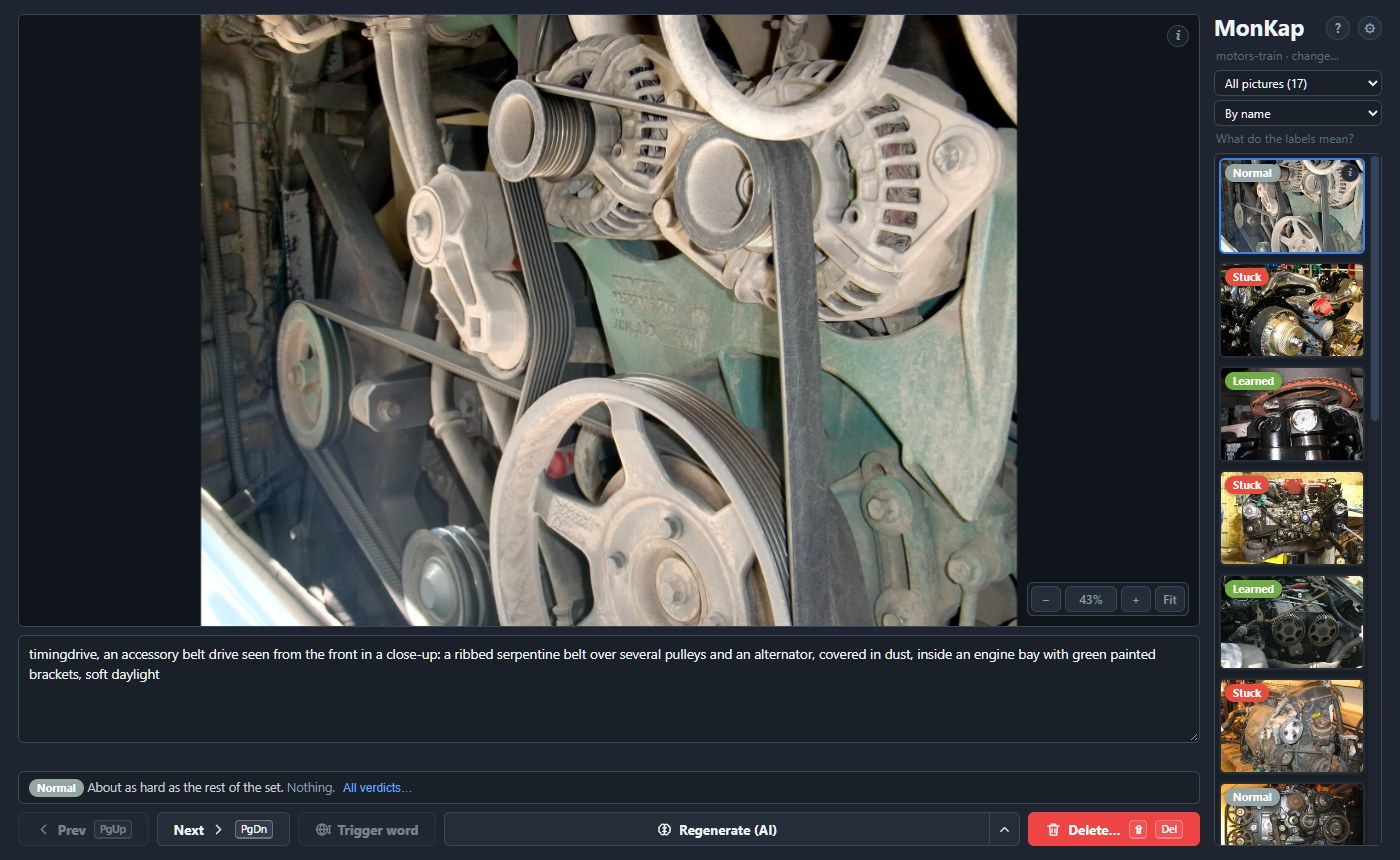
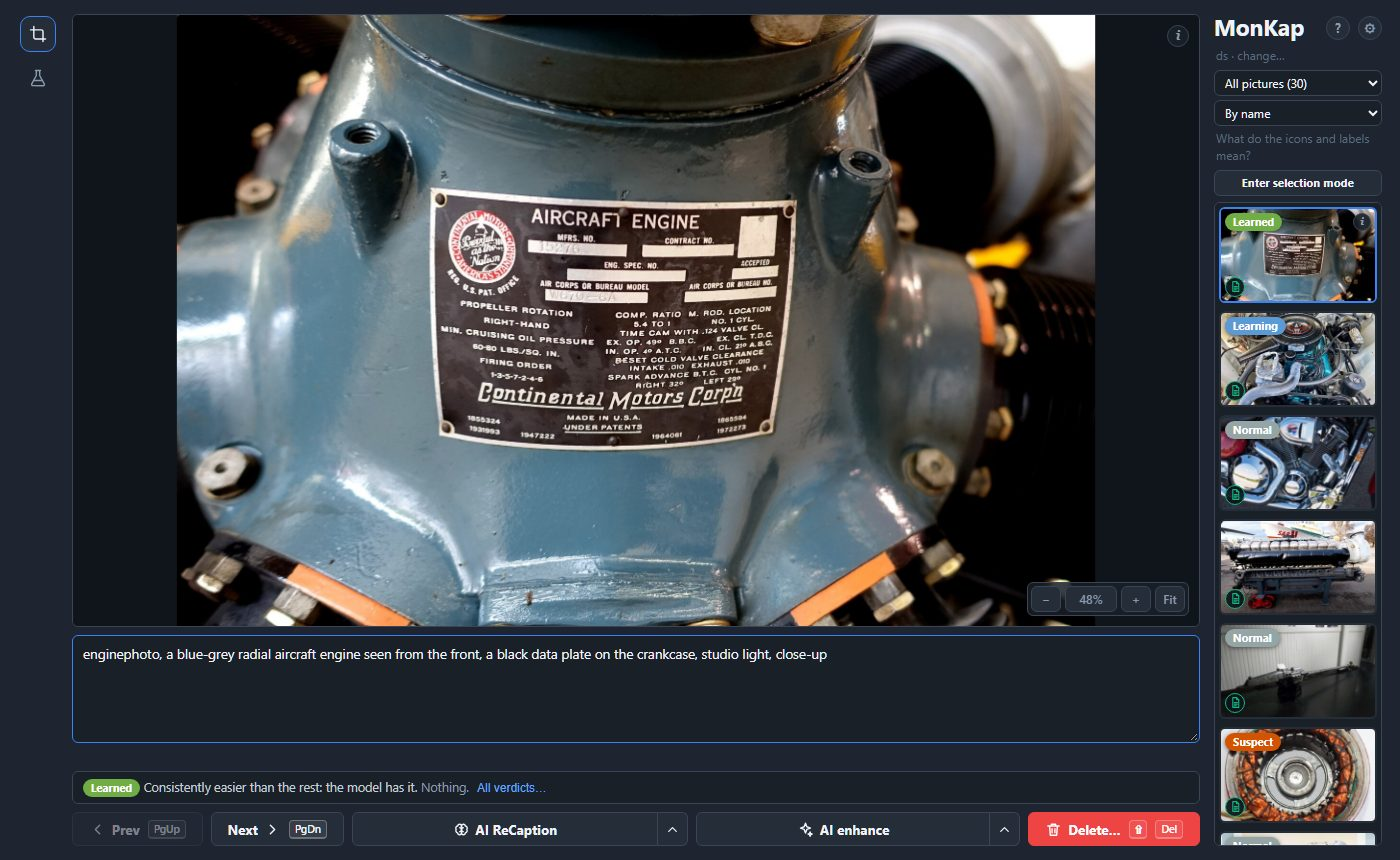
(DOCS): README rewritten as a product page, all screenshots retaken, thanks to Fizgig's author
- Short sections with a picture each: Kapture, captions, Enhance, Enhance lab (gallery and Resolve), Fizgig training review.
- Screenshots are retaken on the repo's test dataset with made-up ComfyUI and Fizgig servers (no real data); the old ones are replaced.
- A social preview image for the repository page (docs/social-preview.png).
- Thanks and a link to shootthesound, the author of Fizgig.

diff --git a/README.md b/README.md
@@ -1,51 +1,105 @@
 # MonKap
 
-A workbench for preparing image datasets: frame and crop pictures, write and edit captions by hand or with a model, and review the whole set from the keyboard.
+**Prepare image datasets for LoRA and fine-tune training: crop, caption, enhance and review every picture, mostly from the keyboard.**
 
-Pictures are never resized behind your back, and nothing is erased without a way back unless you ask for it.
+[![Release](https://img.shields.io/github/v/release/DIGIDWARF-CC/MonKap)](https://github.com/DIGIDWARF-CC/MonKap/releases/latest)
+[![License: GPL-3.0](https://img.shields.io/github/license/DIGIDWARF-CC/MonKap)](LICENSE)
+![Windows 10 | 11](https://img.shields.io/badge/Windows-10%20%7C%2011-0078D6)
+![Python 3.10+](https://img.shields.io/badge/Python-3.10%2B-3776AB)
+
+[**Download for Windows**](https://github.com/DIGIDWARF-CC/MonKap/releases/latest) · [Run from source](#run-from-source) · [Works with Fizgig](#fizgig)
 
 ![MonKap: a folder of pictures, the caption under the picture, training labels on the thumbnails](docs/screenshots/01-overview.jpg)
 
+Pictures are never resized behind your back, and nothing is erased without a way back unless you ask for it.
+
 ## What it does
 
-- **Kapture.** Drag a frame on a picture (ratio presets, the size shown in pixels), press `C`, and the framed area is saved next to the original as a new PNG, at the original's own pixels. The frame stays, so a four-panel page is four key presses. New pictures get names from a template (`{parent}_crop_{n:03d}`), and a number is never used twice, even after a crop is deleted.
-- **Captions.** The keyboard starts in the caption box; it saves by itself, and `PgUp` / `PgDn` walk through the folder. Clearing a caption on purpose removes the file (the old text is backed up first). A folder can have a trigger word, which MonKap can put first in a caption with one button.
-- **AI ReCaption.** The brain button writes the caption again, from scratch, with a model served by LM Studio, or by any server with an OpenAI-style API (Ollama, llama.cpp, vLLM…): the old text is replaced (it is kept, and *Restore previous caption* brings it back). Pick the model and the task in the settings; each task's instruction is editable. The arrow next to the button takes a hint for the model and has *Unload the model from LM Studio* (the model you picked only; unloading one that isn't loaded is no error).
-- **AI enhance.** The sparkle button hands the picture to a ComfyUI that is already running (MonKap never starts one). The progress is drawn over the picture itself (blurred and darkened, then ComfyUI's own preview frames), with one **Stop** button in place of the usual ones. The result comes as an interactive comparison: the original on the left, the enhanced picture on the right, a divider you drag. Then: **Retry** (another seed), **Discard**, **Replace** (the original is kept in `.monkap/replaced/`, and Undo brings it back) or **Store as Kapture** (a new picture next to the original, named and captioned like a crop). While it runs, the other pictures, the selection mode and the filters wait, and every greyed button says why in its tooltip. The arrow next to the button takes your own words for the picture and has *Unload the models from ComfyUI*. See [Enhance](#enhance-with-comfyui) below.
-- **Enhance lab.** The second icon of the rail on the left. A gallery of every picture of the folder with what helps to choose (size in pixels, a rough sharpness estimate with a *blurriest first* order, which task a picture is in, failed or waiting, the training verdict, AI-enhanced). Pick pictures (click, Shift+click, `Ctrl+A`), make a **task** from them with an optional extra instruction for the enhancer (the tick *Completely override default prompt* makes that instruction the whole prompt, without the template's default words in front; such a task wears an *overridden enhancer defaults* pill), and **Start** it: ComfyUI works through the pictures one at a time, with a progress bar and the time left. A finished picture leaves its task for good and gets a big yellow mark; a click opens it next to its original, and you choose **Regenerate**, **Discard**, **Save as new**, **Replace** or **Delete as unfixable**, then land on the next one that waits (`PgUp` / `PgDn` walk them). Three failures in a row, or a ComfyUI that goes away, stop the task. The tasks and the waiting results are kept on disk, so they survive a restart; a task that was running comes back *stopped*, never started by itself. The lab and the main view never use ComfyUI at the same time, and you can't leave the lab while tasks run.
-- **Who wrote a caption, and what changed.** Small round icons on every picture, in the filmstrip and in the gallery: a page with text (yellow: no caption, green: written or edited by hand, blue: written by the model and not touched since) and, when the picture was enhanced by AI, sparkles. The *Show* list filters by them (No caption, Written by hand, Written by AI, Enhanced by AI), sorts by when the caption changed, and, when a Fizgig run has trained on the folder, by whether a caption changed since that run started. MonKap keeps these notes in the folder's `.monkap/pictures.json`; a caption it has no note of counts as written by hand, and so does any text you have changed.
-- **Selection mode.** *Enter selection mode* above the filmstrip: a click on a picture picks it (Shift+click a range; icons for all, none and invert; they act on what the list shows, so a filter never hides a picked picture). The picture area becomes a gallery of the picked ones: click a tile to edit its caption below, double-click (or the arrow on the tile) to open it as a picture, and *Back to selection gallery* returns. The gallery is for the mouse; the keyboard stays with the caption box (`PgUp` / `PgDn` walk the picked pictures). **AI ReCaption** (with a hint for all of them) writes the captions one after another: each tile shows a spinner, then its icon turns blue (a red mark if it failed), with *Stop processing* and *Undo captions* above; **Trigger word** puts the folder's word first in every picked caption; **Delete selected** removes them together and always asks, whatever the settings say about asking (one Undo for the whole pack in the soft mode). The pick is remembered for each folder while the page is open: leave the mode and come back, or open another folder and return, and it is there (names that left the folder are dropped; *Select none* clears it).
-- **Big folders and big pictures.** A virtual filmstrip (a 4000-picture folder opens in a fraction of a second), a whole-picture preview, and full-resolution tiles when you zoom in. Pinch-zoom works on touch.
-- **Delete.** Either move to the folder's `removed/` with Undo, or erase for good. Your choice in the settings.
-- **Current dataset maintenance.** A tab of the settings with housekeeping of the folder that is open: *Clear all captions* (each text is kept in `.monkap/backups`, and Undo brings them back), *Delete empty caption files*, *Empty the removed/ folder* and *Forget MonKap's notes*. Every button counts what it would do and always asks first; the asking cannot be switched off.
+- **Crop** a part of a picture into a new picture (Kapture), at the original's own pixels.
+- **Caption** by hand with autosave, or with a vision model: LM Studio or any OpenAI-compatible server.
+- **Enhance** a picture with your own ComfyUI, and compare before and after on a draggable divider.
+- **Enhance a whole folder** in the Enhance lab: pick pictures, make a task, decide about each result.
+- **Review training** when you train with [Fizgig](#fizgig): which pictures are stuck, and what to do about them.
+- **Stay in control**: Undo for deletes, replaced originals and cleared captions; big folders open fast.
+
+## Crop: Kapture
+
+Drag a frame (ratio presets, size shown in pixels), press `C`, and the framed area is saved next to the original as a new PNG. The frame stays, so a four-panel page is four key presses. New pictures are named from a template (`{parent}_crop_{n:03d}`), and a number is never used twice.
 
 ![Kapture: a 1:1 frame on the picture; C saves it as a new picture](docs/screenshots/02-kapture.jpg)
 
-The layout follows the window: in a narrow window (or on a touch screen) the picture goes first and the buttons become one row at the bottom.
+## Caption
 
-<img src="docs/screenshots/06-phone.jpg" alt="The narrow layout" width="260">
-
-## Install (Windows 10 and 11)
-
-Run `MonKap-<version>-setup.exe`. It installs for your user (no administrator rights) and adds a Start menu entry.
-
-MonKap shows its page in the system's **WebView2** runtime. Windows 11 has it. On Windows 10 it usually comes with Microsoft Edge, but an old Windows 10 may only have the older web view: if the window doesn't open, install the Evergreen runtime from <https://developer.microsoft.com/microsoft-edge/webview2/>. Or use the Start menu entry **MonKap (in the browser)**, which opens the same page in your default browser instead of a window.
-
-For captions with a model, start LM Studio's server (or any compatible one), and in MonKap's settings set the address (`http://localhost:1234` is the default), press Refresh, and choose a model that can see pictures. The pictures are sent to that address, so use one you trust.
+- The keyboard starts in the caption box. It saves by itself, and `PgUp` / `PgDn` walk through the folder.
+- A **trigger word** per folder goes first in a caption with one button.
+- **AI ReCaption** writes the caption again from scratch. The old text is kept, and *Restore previous caption* brings it back. The arrow next to the button takes a hint for the model.
+- Small icons show who wrote each caption (nobody, you, or the model), and the *Show* list filters by them.
+- **Selection mode** does the same for many pictures at once: ReCaption, trigger word, delete, with one Undo.
 
 ## Enhance with ComfyUI
 
-Optional. In the settings, the Enhance tab takes the address of your ComfyUI (`http://127.0.0.1:8188` by default) and a template. **Check** tells you, before anything is sent, whether the template is usable and whether that ComfyUI has the nodes and model files it asks for. **Free ComfyUI's memory** unloads its models, for when a trainer needs the video memory.
+The sparkle button hands the picture to a ComfyUI that is already running (MonKap never starts one). The progress is drawn on the picture itself. The result comes as a comparison with a draggable divider, then you choose: **Retry** (new seed), **Discard**, **Replace** (the original is kept, Undo brings it back) or **Store as Kapture**.
 
-The template is a ComfyUI workflow saved with *Save (API Format)*. MonKap knows nothing about what is between the marked nodes, found by their titles: `MonKap Image` (the picture goes in), `MonKap Prompt` (the words), `MonKap Seed`, `MonKap Size` (optional: the size of the result) and `MonKap Result` (a preview node, so nothing lands in ComfyUI's output folder). **Download the reference template** in the settings gives a working one made only of ComfyUI's own nodes, for Qwen Image 2.1: pick your model files in its three loaders, or change whatever you like between the marked nodes (another model, another editor) and use your file instead. Keep the marked nodes and keep them linked; MonKap checks that.
+<p>
+<img src="docs/screenshots/03-enhance-progress.jpg" alt="The progress is drawn on the picture" width="49%">
+<img src="docs/screenshots/04-enhance-diff.jpg" alt="Before and after, with a draggable divider" width="49%">
+</p>
 
-**Enhanced picture size** (settings, Enhance tab): 1 MP, 2 MP (the default), 4 MP, or as the original (at most 4 MP). It reaches the workflow through the `MonKap Size` node; a template made before 0.5.0 has none and ignores the setting (*Check* says so), so download the reference template again to get it. Bigger is slower and needs more video memory.
+The result size is a setting: 1, 2 or 4 megapixels, or the picture's own size. Set the ComfyUI address and a workflow in the settings (see [Set up Enhance](#set-up-enhance)).
 
-The picture is sent to ComfyUI's temporary folder under a random name, the result is fetched from there, and the run is removed from ComfyUI's history afterwards. ComfyUI itself may keep log lines and its temporary files until it restarts.
+## Enhance lab
 
-## Run from source (any system)
+The second icon on the left switches to the lab: a gallery of the whole folder with each picture's size, a rough sharpness estimate (*blurriest first*) and its status.
 
-Needs Python 3.10 or newer.
+![The Enhance lab: a gallery with sizes and a task running](docs/screenshots/05-lab.jpg)
+
+1. **Pick** pictures (click, Shift+click, `Ctrl+A`).
+2. **Make a task** with an optional extra instruction. *Completely override default prompt* makes that instruction the whole prompt; such a task wears an *overridden enhancer defaults* pill.
+3. **Start**: ComfyUI works through the pictures one at a time, with progress and time left.
+4. **Resolve** each result next to its original: **Regenerate**, **Discard**, **Save as new**, **Replace** or **Delete as unfixable**. `PgUp` / `PgDn` walk the pictures that wait.
+
+![Resolve: the original and the enhanced picture, five choices](docs/screenshots/06-resolve.jpg)
+
+Three failures in a row, or a ComfyUI that goes away, stop the task. Tasks and waiting results are kept on disk and survive a restart (a task that was running comes back *stopped*, never started by itself).
+
+## Fizgig
+
+Optional. Point the settings' Fizgig tab at a [Fizgig](https://github.com/shootthesound/Fizgig) install and MonKap reads, from its files only, never writing to them:
+
+- the **trigger word** and **Caption Extension** of a folder,
+- where Fizgig keeps its **latent cache** (erasing a picture for good clears its latents too),
+- the **training review**: after a Fizgig run on the folder, each picture gets a label (Stuck, Suspect, Learning, Learned…), the verdict and what to do about it sit under the caption, and you can filter (*Problems*) and sort (*Hardest first*). A picture whose caption was changed after the run started counts as dealt with.
+
+![Problem pictures first, hardest on top, with the verdict under the caption](docs/screenshots/07-training-review.jpg)
+
+Checked against Fizgig 8.9.3. If Fizgig changes how it stores folders or settings this can stop working; MonKap then falls back to its own settings.
+
+## Install (Windows 10 and 11)
+
+1. Download `MonKap-<version>-setup.exe` from the [latest release](https://github.com/DIGIDWARF-CC/MonKap/releases/latest) and run it. It installs for your user (no administrator rights).
+2. Start **MonKap** from the Start menu and open a folder of pictures.
+
+The installer is not code-signed, so Windows SmartScreen may ask you to confirm (*More info*, *Run anyway*).
+
+MonKap shows its page in the system's **WebView2** runtime. Windows 11 has it; Windows 10 usually gets it with Microsoft Edge. If the window doesn't open, install the Evergreen runtime from <https://developer.microsoft.com/microsoft-edge/webview2/>, or use the Start menu entry **MonKap (in the browser)**.
+
+## Set up captions
+
+Start LM Studio's server (or any OpenAI-compatible one: Ollama, llama.cpp, vLLM…). In the settings set its address (`http://localhost:1234` by default), press Refresh and choose a model that can see pictures. Each task's instruction is editable. The pictures are sent to that address, so use one you trust.
+
+## Set up Enhance
+
+In the settings' Enhance tab set your ComfyUI's address (`http://127.0.0.1:8188` by default) and press **Check**: it tells you, before anything is sent, whether the template is usable and whether that ComfyUI has the nodes and model files it asks for.
+
+- **The template** is a ComfyUI workflow saved with *Save (API Format)*. MonKap finds its marked nodes by title: `MonKap Image` (the picture goes in), `MonKap Prompt` (the words), `MonKap Seed`, `MonKap Size` (optional: the size of the result) and `MonKap Result` (a preview node, so nothing lands in ComfyUI's output folder).
+- **Download the reference template** gives a working one for Qwen Image 2.1, made only of ComfyUI's own nodes: pick your model files in its loaders. Or change anything between the marked nodes (another model, another editor) and use your file instead. A template made before 0.5.0 has no `MonKap Size` node and ignores the size setting; download the reference again to get it.
+- **Free ComfyUI's memory** unloads its models, for when a trainer needs the video memory.
+
+The picture is sent to ComfyUI's temporary folder under a random name, the result is fetched from there, and the run is removed from ComfyUI's history afterwards. ComfyUI itself may keep log lines and temporary files until it restarts.
+
+## Run from source
+
+Needs Python 3.10 or newer, on any system.
 
 ```bash
 git clone https://github.com/DIGIDWARF-CC/MonKap.git
@@ -54,31 +108,14 @@ pip install .
 monkap
 ```
 
-`monkap` starts the local server and opens the page in your browser. `monkap <folder>` opens a folder; `monkap --no-browser` only prints the address (for a Linux box without a browser, or to open it from another program); `monkap --help` lists the rest. `pip install ".[window]"` adds `monkap-gui`, MonKap's own window, on systems where pywebview works.
+`monkap` starts the local server and opens the page in your browser. `monkap <folder>` opens a folder; `monkap --no-browser` only prints the address; `monkap --help` lists the rest. `pip install ".[window]"` adds `monkap-gui`, MonKap's own window, where pywebview works.
 
-## Fizgig
+## Your files and your privacy
 
-Optional. In the settings, the Fizgig tab takes the folder of a [Fizgig](https://github.com/shootthesound/Fizgig) install, and MonKap reads a few things from it instead of asking you twice: the trigger word of a folder, the Caption Extension, and where Fizgig keeps its latent cache (so erasing a picture for good also clears its latents). MonKap only reads Fizgig's files and never writes to them.
-
-**Training review.** With the Fizgig folder set, and once a Fizgig run has trained on the folder you have open, MonKap reads that run's per-image loss watch and shows it where you work: a coloured label on each picture (Stuck, Suspect, Learning, Learned…), the verdict and what to do about it under the caption, a list you can filter ("Problems") and sort ("Hardest first"), and a page that explains every label and, from the run's own settings, which of Fizgig's options could help (auto-recaption, per-image LR, where learning finished). It shows no charts: Fizgig's Runs page has them. A picture whose caption was changed after the run started has been dealt with, whether you changed it or Fizgig's auto-recaption did: its label goes, and "Problems" counts only what is still open. When Fizgig is set up but has no run on the folder, a yellow (!) *No training data* says why when clicked.
-
-![Problem pictures first, hardest on top, with the verdict under the caption](docs/screenshots/03-training-review.jpg)
-
-![What every label means, and what to try in Fizgig](docs/screenshots/04-verdicts-explained.jpg)
-
-The page checks for changes every few seconds while it is open, so verdicts appear as a run writes them, and a new trigger word or caption extension set in Fizgig shows up without reloading. A caption you are typing is never overwritten.
-
-If you moved your Fizgig folder after a run, MonKap still finds the run's results: Fizgig records absolute paths, so when the recorded folder is gone MonKap looks for it in this Fizgig's output folder, and a note under the filters says so. When it finds nothing, the same place says why.
-
-![The Fizgig tab of the settings](docs/screenshots/05-fizgig-settings.jpg)
-
-This depends on the Fizgig version. It was checked against Fizgig 8.9.3, and if Fizgig changes how it stores folders or settings it can stop working (MonKap then falls back to its own settings). Watch for MonKap updates after Fizgig updates.
-
-## What it keeps on your computer
-
-MonKap's own files are the settings, the list of folders you opened and the Enhance lab's tasks and waiting results (enhanced pictures that wait for your decision, so they can be big). The installed program keeps them in the `user_data` folder next to `MonKap.exe`, so removing the program's folder removes them too (the uninstaller asks first). Run from source, they go to `%LOCALAPPDATA%\MonKap` on Windows, `~/.local/share/monkap` on Linux, `~/Library/Application Support/MonKap` on macOS, or to the folder in `MONKAP_HOME`. The settings dialog shows what is there and can remove it; `monkap --forget` does the same. In a dataset folder MonKap keeps a hidden `.monkap` folder (the crop ledger and caption backups), the pictures and captions you asked for, and `removed/` if you remove pictures. Previews and tiles are made in memory.
-
-The server listens on 127.0.0.1 only and wants a session key on every request. The browser keeps its usual cache for the page, as any page does.
+- The server listens on `127.0.0.1` only and wants a session key on every request. Nothing is sent anywhere except to the LM Studio and ComfyUI addresses you set.
+- In a dataset folder MonKap keeps a hidden `.monkap` folder (crop ledger, caption backups, replaced originals), the pictures and captions you asked for, and `removed/` if you remove pictures.
+- Its own files (settings, the folders you opened, the lab's tasks and waiting results) live in `user_data` next to `MonKap.exe`; run from source, in `%LOCALAPPDATA%\MonKap` on Windows, `~/.local/share/monkap` on Linux, `~/Library/Application Support/MonKap` on macOS, or in `MONKAP_HOME`. The settings' Data tab shows what is there and can remove it; `monkap --forget` does the same.
+- The settings' *Current dataset maintenance* tab clears captions, empty caption files and `removed/` for the open folder; every button counts what it would do and asks first.
 
 ## Build the installer
 
@@ -88,7 +125,7 @@ python -m venv .venv
 .venv\Scripts\python packaging\build.py
 ```
 
-This makes `dist\MonKap\MonKap.exe` (a folder, so nothing unpacks itself into the temp folder on start) and, with [Inno Setup 6](https://jrsoftware.org/isinfo.php) installed, `dist\MonKap-<version>-setup.exe`.
+This makes `dist\MonKap\MonKap.exe` and, with [Inno Setup 6](https://jrsoftware.org/isinfo.php) installed, `dist\MonKap-<version>-setup.exe`.
 
 ## Tests
 
@@ -97,12 +134,15 @@ python -m unittest discover -s tests
 node --test "tests/js/*.test.mjs"
 ```
 
-No GPU, no display and no network are needed. The server and the LM Studio client are tested against fake servers.
+No GPU, display or network is needed: the server, LM Studio client and ComfyUI client are tested against fake servers.
 
-## Where it came from
+## Thanks
 
-MonKap started as a dataset tool for a LoRA trainer, and its file logic follows what trainers expect: a picture with no caption file is left out of training, a name never comes back, and a crop is cut from the original pixels.
+MonKap began as a dataset tool for LoRA training, and its file logic follows what trainers expect: a picture with no caption file is left out of training, a name never comes back, and a crop is cut from the original pixels.
+
+Kudos to [**shootthesound**](https://github.com/shootthesound) for giving me an idea to make this app.
+Be sure to check his work as well. [**Fizgig**](https://github.com/shootthesound/Fizgig) is just the one tool you need to do all of the work if you wish to train LoRAs for Flux 2 Klein 9B, Flux 3 Image Klein, Krea 2, MiniMax H3, Qwen Image 2.1, MOSS-Image, Z-Image Turbo, SDXL and Anima, and I really expect more to come.
 
 ## License
 
-GPL-3.0, see `LICENSE`.
+GPL-3.0, see [LICENSE](LICENSE).
